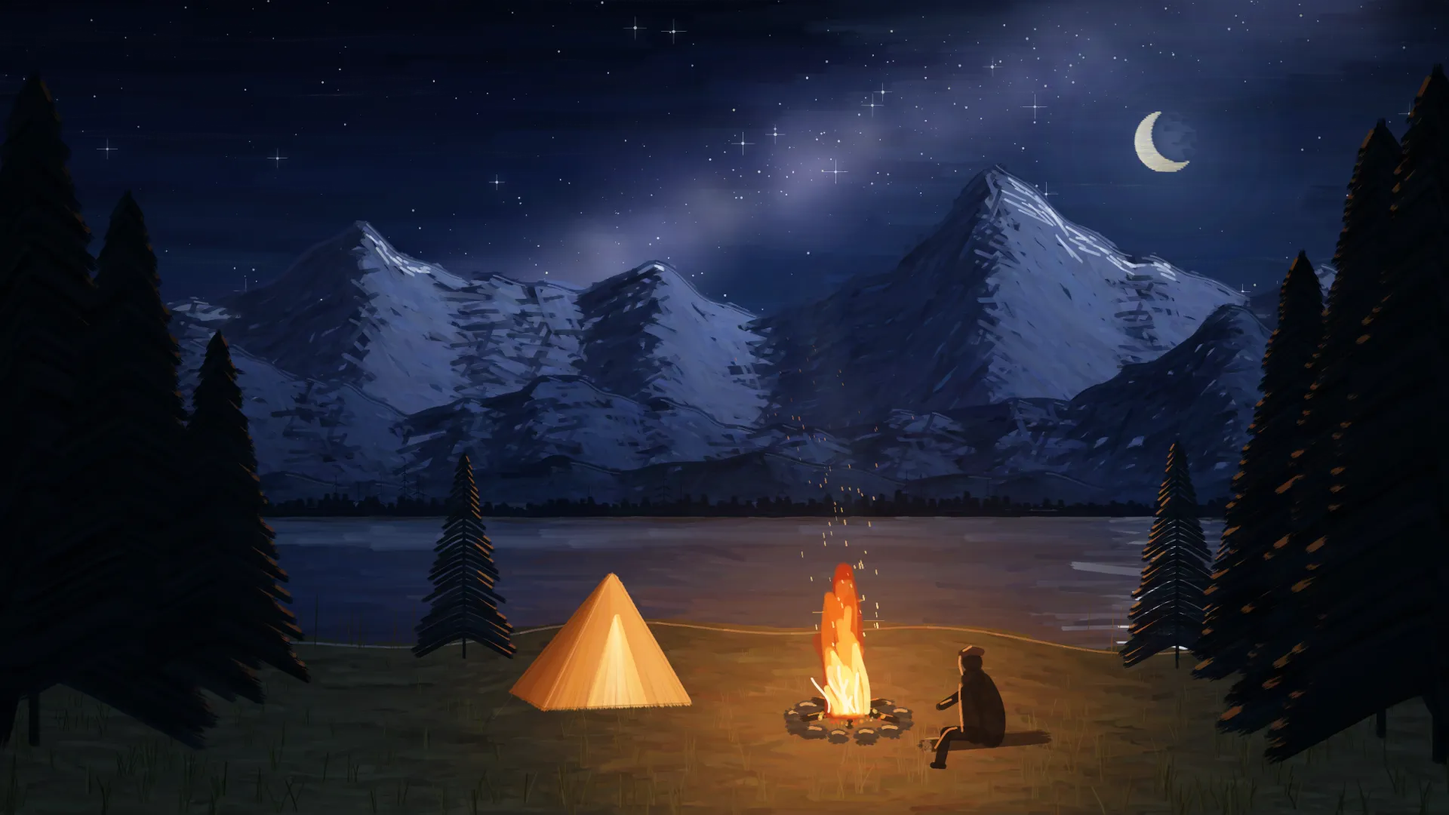
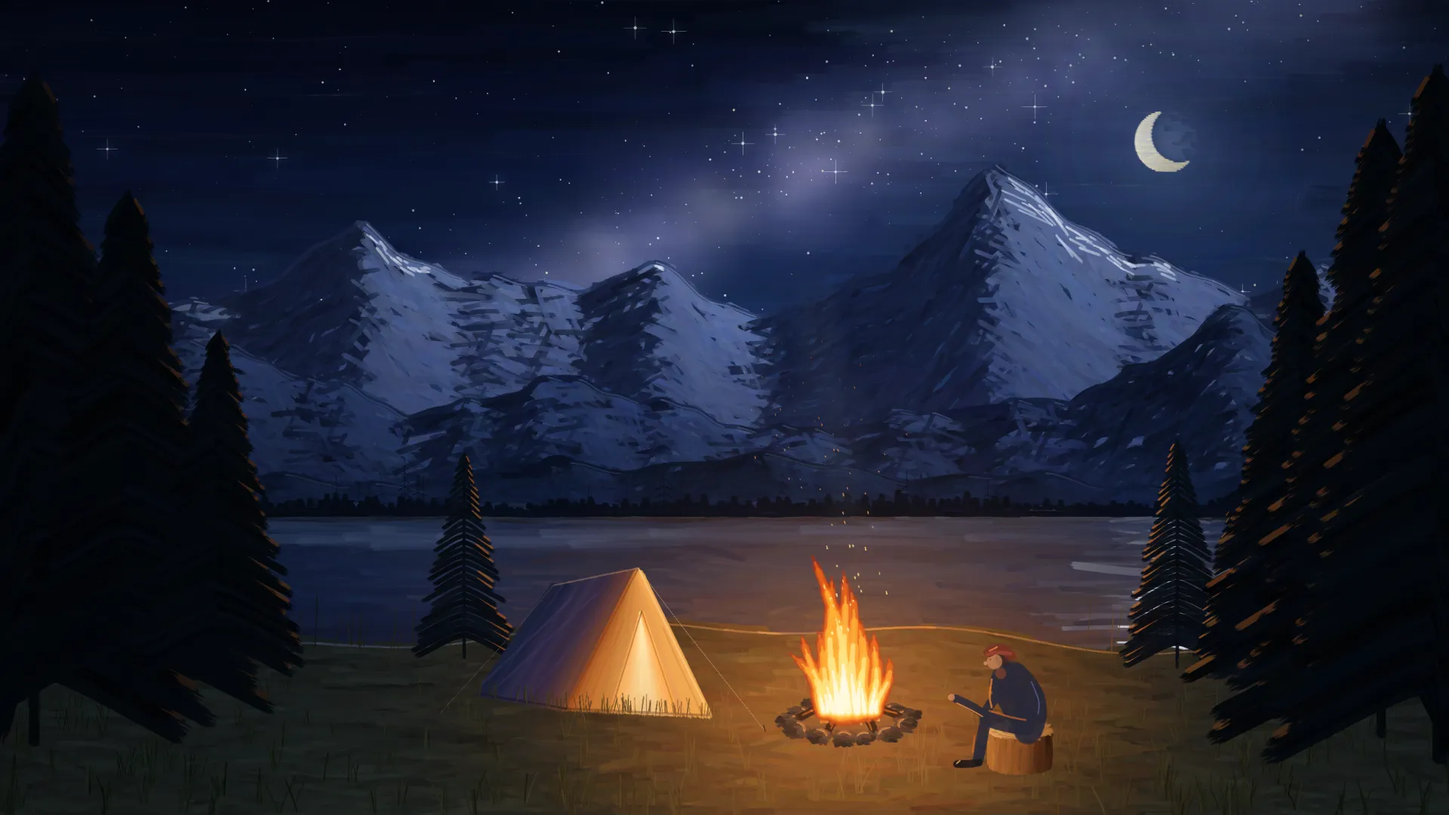
v1.3.1: sunflowers inside the jug, a better campfire camp
- Sunflowers: the stems now go down into the jug's dark mouth with the front
  lip over their ends (the bouquet is painted after the mouth), the two low
  flower heads sit clear of the rim, and the drooping flowers hang from arched
  necks instead of horizontal rods.
- Campfire by the Lake: an A-frame tent (lit gable, shadowed slope, glowing
  door, guy ropes), a fire built from tapering flame tongues, individually
  shaded stones and burning logs, and the person now sits on a tree stump.
  The stray dashes the lake phase left above the flames are painted over.
- paint-artwork.mjs: --open <file.qdraw> --drop "Layer,..." redoes only the
  last phases of a saved painting (minutes instead of half an hour).

diff --git a/frontend/scripts/artwork/campfire-by-the-lake.js b/frontend/scripts/artwork/campfire-by-the-lake.js
@@ -1,6 +1,6 @@
 // "Campfire by the Lake" — a night landscape in oil, painted inside Quarc Draw (on top of kit.js).
 // Stars and the Milky Way over moonlit mountains, a still lake, and on the near shore a campfire, a glowing tent and someone keeping
-// warm on a log. Two lights: the cold crescent moon up right, the warm fire below. Every mark is a pen stroke through the app's
+// warm on a tree stump. Two lights: the cold crescent moon up right, the warm fire below. Every mark is a pen stroke through the app's
 // own brushes, on the app's layers. Seeded: the same script paints the same picture.
 
 (() => {
@@ -255,70 +255,154 @@
     }
   };
 
-  // ------------------------------------------------------------------ 8. the camp: tent, log seat, a figure, stones and logs
+  // ------------------------------------------------------------------ 8. the camp: a tent, stones and burning logs, someone sitting on a stump
+  const lerp2 = (p, q, t) => [p[0] + (q[0] - p[0]) * t, p[1] + (q[1] - p[1]) * t];
+  const arcPts = (cx, cy, rx, ry, a0, a1, n = 14) => Array.from({ length: n + 1 }, (_, i) => { const a = a0 + ((a1 - a0) * i) / n; return [cx + rx * Math.cos(a), cy + ry * Math.sin(a)]; });
   api.camp = async () => {
+    newLayer('Water patch');                                  // the lake phase's "fire on the water" dashes float above the flames: paint that stretch of water again, calmer
+    const waterPoly = [...Array.from({ length: 14 }, (_, k) => [1360 + k * 20, 1036]), ...Array.from({ length: 14 }, (_, k) => [1620 - k * 20, shoreY(1620 - k * 20) - 6])];
+    await flowFill(waterPoly, { dir: () => 0, wobble: 0.04, colorAt: lakeAt, spacing: 11, len: [110, 260], size: [11, 18], opacity: 0.97, wet: 0.4, dh: 3, ds: 0.04, dl: 0.03 });
+    for (let i = 0; i < 9; i++) { const y = rnd(1070, 1108), x = FIRE.x + gauss() * 40; await stroke([[x - 50, y], [x + 50, y + gauss()]], { color: jit('#b8602a', 4, 0.05, 0.03), size: rnd(5, 8), opacity: 0.2, wet: 0.3 }); }   // a faint warm shimmer instead
+    const edge = []; for (let x = 1340; x <= 1660; x += 12) edge.push([x, shoreY(x)]);          // the patch hid a bit of the water's edge: draw it again
+    await contour(edge, { colorAt: ([x, y]) => mix('#3a5482', '#e08b45', clamp(fireLight(x, y, 750) * 1.6, 0, 1)), size: 5, chunk: 120, opacity: 0.7, wet: 0.2 });
     newLayer('Camp');
-    // the tent, glowing from the lantern inside: the canvas painted in strokes running from the peak down to the ground
-    const A = [1082, 1012], BL = [905, 1222], FL = [962, 1252], FR = [1218, 1242], D = [1090, 1084], DL = [1040, 1248], DR = [1142, 1246];
-    const fan = async (apex, b0, b1, n, colorAt, size) => {
-      for (let pass = 0; pass < 2; pass++) for (let k = 0; k <= n; k++) {
-        const u = clamp((k + (pass ? 0.5 : 0) + gauss() * 0.2) / n, 0, 1), b = [b0[0] + (b1[0] - b0[0]) * u, b0[1] + (b1[1] - b0[1]) * u];
-        const s0 = rnd(0.02, 0.1), pts = Array.from({ length: 6 }, (_, m) => { const t = s0 + (1 - s0) * (m / 5); return [apex[0] + (b[0] - apex[0]) * t + Math.sin(Math.PI * t) * gauss() * 1.5, apex[1] + (b[1] - apex[1]) * t]; });
-        await stroke(pts, { color: jit(colorAt(u), 3, 0.04, 0.025), size: size * rnd(0.85, 1.15), opacity: 0.95, wet: 0.35 });
-      }
+    // ---- the tent: an A-frame seen from the front-right. Its gable faces the fire (warm, lit by the flames and by a lantern inside);
+    // the long slope on the left turns away from the fire into cold shadow. Strokes run along the fall of the canvas, ridge to ground.
+    const Af = [1128, 1004], Ab = [978, 1034], Bl = [1000, 1252], Br = [1254, 1264], Cl = [846, 1226];   // ridge ends, gable corners, back corner
+    const Da = [1134, 1080], Dl = [1080, 1256], Dr = [1196, 1263];                                        // the door
+    await dab(900, 1246, { preset: 'paint-airbrush', size: 260, color: '#04060b', opacity: 0.5 });       // its shadow on the ground, away from the fire
+    await dab(1130, 1268, { preset: 'paint-airbrush', size: 200, color: '#1a0d06', opacity: 0.35 });
+    for (let pass = 0; pass < 2; pass++) for (let k = 0; k <= 28; k++) {                                   // the shadowed slope
+      const u = clamp((k + (pass ? 0.5 : 0) + gauss() * 0.15) / 28, 0, 1), top = lerp2(Af, Ab, u), bot = lerp2(Bl, Cl, u), s0 = rnd(0, 0.05);
+      const pts = Array.from({ length: 7 }, (_, m) => { const t = s0 + (1 - s0) * (m / 6), p = lerp2(top, bot, t); return [p[0] + Math.sin(Math.PI * t) * gauss() * 1.2, p[1]]; });
+      const warm = clamp((0.35 - u) / 0.35, 0, 1) * 0.55;                                                  // its front edge still catches the lantern and the fire
+      await stroke(pts, { color: jit(mix(mix(mix('#40283a', '#222a4a', u), '#9a5428', warm), '#0d1020', clamp(u - 0.6, 0, 0.4)), 3, 0.05, 0.035), size: 17 * rnd(0.85, 1.15), opacity: 0.96, wet: 0.35 });
+    }
+    for (let pass = 0; pass < 2; pass++) for (let k = 0; k <= 24; k++) {                                   // the gable: fan from the apex, brighter towards the fire
+      const u = clamp((k + (pass ? 0.5 : 0) + gauss() * 0.15) / 24, 0, 1), b = lerp2(Bl, Br, u), s0 = rnd(0.02, 0.1);
+      const pts = Array.from({ length: 7 }, (_, m) => lerp2(Af, b, s0 + (1 - s0) * (m / 6)));
+      await stroke(pts, { color: jit(mix(mix('#a8521f', '#f3a44c', Math.pow(u, 0.85)), '#ffc878', 0.2 * Math.sin(Math.PI * u)), 3, 0.04, 0.03), size: 16 * rnd(0.85, 1.15), opacity: 0.96, wet: 0.35 });
+    }
+    for (let pass = 0; pass < 2; pass++) for (let k = 0; k <= 12; k++) {                                   // the open door, glowing from the lantern
+      const u = clamp((k + (pass ? 0.5 : 0)) / 12, 0, 1), b = lerp2(Dl, Dr, u);
+      const pts = Array.from({ length: 6 }, (_, m) => lerp2(Da, b, 0.02 + 0.98 * (m / 5)));
+      await stroke(pts, { color: jit(mix('#ffeeb8', '#ff9a3a', Math.abs(u - 0.5) * 1.7), 3, 0.04, 0.03), size: 11 * rnd(0.9, 1.1), opacity: 0.97, wet: 0.3 });
+    }
+    await dab(1137, 1190, { preset: 'paint-airbrush', size: 190, color: '#ffd27a', opacity: 0.4 });          // the lantern's light spilling over the door
+    const seam = (p, q, c, size, op) => stroke(line(...p, ...q, { step: 12, jitter: 0.4 }), { color: c, size, opacity: op, wet: 0.2, pressure: 0.8 });
+    await seam(Af, Br, '#ffdca4', 4.5, 0.8);                                                               // the gable's right edge, lit by the fire
+    await seam(Af, Bl, '#6e3312', 4, 0.7); await seam(Af, Ab, '#caa070', 4, 0.6);                          // its left edge, and the ridge
+    await seam(Bl, Br, '#3c1c0c', 6, 0.55); await seam(Bl, Cl, '#0b0e19', 6, 0.7);                         // where the canvas meets the ground
+    await seam(Da, Dl, '#7a3a14', 4, 0.75); await seam(Da, Dr, '#a8561e', 4, 0.75);                        // the door's edges
+    for (const [u, v] of [[0.22, 0.18], [0.5, 0.3], [0.78, 0.2]]) {                                        // creases in the slope
+      const a = lerp2(Af, Ab, u), b = lerp2(Bl, Cl, clamp(u + v, 0, 1));
+      await stroke(line(a[0], a[1] + 30, b[0], b[1] - 16, { step: 18, jitter: 1.2 }), { color: jit('#4b3a66', 3, 0.05, 0.03), size: 6, opacity: 0.45, wet: 0.2, pressure: 0.7 });
+    }
+    for (const [p, q] of [[[1036, 1250], [1104, 1094]], [[1240, 1262], [1170, 1108]]]) await stroke(line(...p, ...q, { step: 20, jitter: 1 }), { color: '#a24f1b', size: 5, opacity: 0.35, wet: 0.2, pressure: 0.7 });
+    for (const [p, q, c] of [[Af, [1352, 1292], '#d9b890'], [Ab, [776, 1262], '#6e5a52']]) {                 // guy ropes, with a stake at each end
+      const m = lerp2(p, q, 0.5);
+      await stroke([p, [m[0], m[1] + 7], q], { color: c, size: 1.9, opacity: 0.7, wet: 0, pressure: 0.7 });
+      await stroke([[q[0] - 3, q[1] - 10], q], { color: '#2a1a10', size: 3.2, opacity: 0.95, wet: 0, pressure: 0.8 });
+    }
+    const baseY = (x) => (x < 1000 ? 1226 + ((x - 846) / 154) * 26 : 1252 + ((x - 1000) / 254) * 12);
+    for (let i = 0; i < 90; i++) {                                                                          // grass in front of the tent's foot
+      const x = rnd(840, 1262), y = baseY(x) + rnd(-2, 8), h = rnd(14, 34), f = fireLight(x, y), lean = gauss() * 0.3;
+      await stroke([[x, y], [x + lean * h * 0.4, y - h * 0.55], [x + lean * h, y - h]], { color: jit(mix(mix('#0b110b', '#1d2a1c', rnd(0, 1)), '#b06a2e', f * 0.9), 4, 0.05, 0.03), size: rnd(2, 3.6), opacity: 0.95, wet: 0, pressure: 0.8 });
+    }
+
+    // ---- a ring of stones round the fire. Each is shaded on its own: warm on the side that faces the flames, dark on the other, a shadow behind it.
+    const stones = Array.from({ length: 13 }, (_, k) => {
+      const a = (k / 13) * Math.PI * 2 + 0.25 + gauss() * 0.08;
+      return { sx: FIRE.x + Math.cos(a) * 100 * rnd(0.94, 1.06), sy: FIRE.y + 12 + Math.sin(a) * 31 * rnd(0.94, 1.06), rx: rnd(15, 25), ry: rnd(11, 16), rot: rnd(-0.2, 0.2) };
+    }).sort((p, q) => p.sy - q.sy);
+    const stone = async ({ sx, sy, rx, ry, rot }) => {
+      let ux = FIRE.x - sx, uy = FIRE.y - 14 - sy; const ul = Math.hypot(ux, uy) || 1; ux /= ul; uy /= ul;      // the way to the flames
+      await dab(sx - ux * rx * 0.55, sy + ry * 0.55 - uy * ry * 0.3, { preset: 'paint-airbrush', size: rx * 2.4, color: '#06080c', opacity: 0.55 });
+      await hatch(ellipsePts(sx, sy, rx, ry, rot), {
+        step: 4, size: 9, minLen: 6, maxLen: 36, dl: 0.03, opacity: 1, wet: 0.2,
+        colorAt: (x, y) => { const d = clamp(0.5 + 0.5 * (((x - sx) * ux) / rx + ((y - sy) * uy) / ry), 0, 1); return mix(mix('#1b1718', '#5a4034', d), '#c4632a', d * d * 0.5); },
+      });
+      const f0 = Math.atan2(uy / ry, ux / rx), rim = (r, n = 9) => Array.from({ length: n }, (_, i) => { const a = f0 + (i / (n - 1) - 0.5) * 1.8; return [sx + Math.cos(a) * rx * r, sy + Math.sin(a) * ry * r]; });
+      await stroke(rim(0.8), { preset: 'paint-gouache', color: jit('#e6803a', 4, 0.05, 0.03), size: 4, opacity: 0.6, pressure: 0.8 });
+      await stroke(rim(0.74, 4), { preset: 'paint-gouache', color: '#ffbf72', size: 2, opacity: 0.55, pressure: 0.8 });
     };
-    await fan(A, BL, FL, 9, (u) => mix('#7a3a16', '#a5521f', u), 15);                                                  // the side away from the fire, in shadow
-    await fan(A, FL, FR, 20, (u) => mix(mix('#d27428', '#f0a44c', clamp(u * 1.2, 0, 1)), '#ffbf6a', 0.25 * Math.sin(Math.PI * u)), 15);   // the front, lit from inside and by the fire
-    await fan(D, DL, DR, 10, (u) => mix('#fff0b4', '#ffbe55', Math.abs(u - 0.5) * 1.6), 10);                         // the open door, glowing
-    for (const [p, q, c] of [[A, FL, '#ffd38a'], [A, FR, '#c4661f'], [A, BL, '#5e2a10'], [BL, FL, '#5e2a10'], [FL, FR, '#8a4518']])
-      await stroke(line(...p, ...q, { step: 10, jitter: 0.5 }), { color: c, size: 3.5, opacity: 0.55, wet: 0.2, pressure: 0.8 });   // seams: soft, in the canvas' own colours
-    for (const [p, q] of [[A, [870, 1272]], [A, [1270, 1266]]]) await stroke(line(...p, ...q, { step: 16, jitter: 0.2 }), { color: '#8a6a52', size: 1.6, opacity: 0.45, wet: 0, pressure: 0.7 });   // guy lines
-    // the log seat
-    const L0 = [1636, 1318], L1 = [1846, 1302];
-    await stroke(line(...L0, ...L1, { step: 12, jitter: 0.4 }), { color: '#2e1c11', size: 36, opacity: 1, wet: 0.2, pressure: 0.95 });
-    for (let k = 0; k < 6; k++) { const t = k / 6; await stroke(line(L0[0] + (L1[0] - L0[0]) * t, L0[1] + (L1[1] - L0[1]) * t - 12 + gauss() * 3, L0[0] + (L1[0] - L0[0]) * (t + 0.14), L0[1] + (L1[1] - L0[1]) * (t + 0.14) - 12, { step: 8 }), { color: jit(mix('#4a2c18', '#c27a3c', clamp(1 - t * 1.6, 0, 1)), 4, 0.05, 0.03), size: 5, opacity: 0.85, wet: 0.1 }); }
-    await hatch(ellipsePts(L0[0] + 2, L0[1], 7, 14), { step: 4, size: 5, minLen: 5, maxLen: 14, colorAt: () => '#9a5f33', opacity: 0.9, wet: 0.2 });   // the cut end, warm in the firelight
-    // someone keeping warm, hunched forward, hands held out to the fire (soft round strokes: a silhouette, rim-lit by the flames)
-    const body = '#0d0a0b', G = { preset: 'paint-gouache', color: body, opacity: 1, pressure: 0.92 };
-    await stroke([[1752, 1300], [1756, 1266], [1748, 1232], [1732, 1208]], { ...G, size: 50 });                 // back, curved
-    await stroke([[1724, 1298], [1718, 1262], [1716, 1226]], { ...G, size: 40 });                               // chest and lap
-    await stroke([[1718, 1200], [1722, 1196]], { ...G, size: 46 });                                             // shoulders
-    await stroke([[1716, 1168], [1720, 1172]], { ...G, size: 40 });                                             // head
-    await stroke([[1700, 1156], [1716, 1146], [1734, 1152]], { ...G, color: '#3a1c14', size: 16 });              // a knitted hat
-    await stroke([[1712, 1212], [1690, 1236], [1664, 1248]], { ...G, size: 17 });                               // arm, hands held to the fire
-    await dab(1660, 1249, { ...G, size: 15 });
-    await stroke([[1738, 1300], [1704, 1294], [1672, 1296]], { ...G, size: 28 });                               // thigh
-    await stroke([[1672, 1296], [1666, 1324], [1660, 1350]], { ...G, size: 21 });                               // shin
-    await stroke([[1648, 1352], [1668, 1354]], { ...G, size: 12 });                                             // boot
-    for (const pts of [[[1696, 1160], [1694, 1178], [1700, 1192]], [[1696, 1210], [1694, 1240], [1700, 1292]], [[1680, 1236], [1662, 1244]], [[1690, 1286], [1666, 1290], [1652, 1322]], [[1702, 1150], [1716, 1142]]])
-      await stroke(pts, { preset: 'paint-gouache', color: jit('#ee8a3e', 4, 0.05, 0.03), size: 4.5, opacity: 0.9, pressure: 0.75 });  // firelight on the side facing it
-    // a ring of stones, warm where they face the flames
-    for (let k = 0; k < 12; k++) {
-      const a = (k / 12) * Math.PI * 2 + 0.2, sx = FIRE.x + Math.cos(a) * 96, sy = FIRE.y + 10 + Math.sin(a) * 30, rx = rnd(15, 24), ry = rnd(10, 14);
-      await hatch(ellipsePts(sx, sy, rx, ry), { step: 4, size: 9, minLen: 6, maxLen: 40, colorAt: (x, y) => mix(mix('#2a2526', '#4a3d36', clamp((sy - y) / ry, 0, 1)), '#6a3c1e', 0.35), dl: 0.03, opacity: 1, wet: 0.2 });
-      await stroke([[sx - rx * 0.6, sy - ry * 0.5], [sx, sy - ry * 0.85], [sx + rx * 0.6, sy - ry * 0.5]], { preset: 'paint-gouache', color: jit('#f0974c', 4, 0.05, 0.03), size: 6, opacity: 0.9, pressure: 0.8 });
+    for (const s of stones.filter((q) => q.sy < FIRE.y + 14)) await stone(s);                                // the far ones first
+    // the burning logs, leaning together over the embers
+    const crown = [FIRE.x + 4, FIRE.y - 36];
+    for (const [bx, by, th] of [[1412, 1268, 21], [1590, 1266, 21], [1462, 1292, 23], [1546, 1294, 23]]) {
+      const tip = [crown[0] + gauss() * 6 + (bx < FIRE.x ? -8 : 8), crown[1] + gauss() * 6], side = bx < FIRE.x ? 1 : -1;
+      await stroke(line(bx, by, tip[0], tip[1], { step: 10, jitter: 0.35 }), { color: '#25160d', size: th, opacity: 1, wet: 0.1, pressure: 0.95 });
+      await stroke(line(bx + side * 6, by - 5, tip[0] - side * 2, tip[1] + 5, { step: 9, jitter: 0.8 }), { color: jit('#c24f16', 4, 0.05, 0.04), size: 5, opacity: 0.85, wet: 0, pressure: 0.8 });   // the side that faces the fire glows
+      for (let k = 0; k < 4; k++) { const t = rnd(0.15, 0.85); await dab(bx + (tip[0] - bx) * t + side * 4, by + (tip[1] - by) * t - 3, { preset: 'paint-gouache', size: rnd(3, 6), color: '#ff7a24', opacity: 0.85 }); }   // glowing cracks
+      await dab(bx + (tip[0] - bx) * 0.5, by + (tip[1] - by) * 0.5, { preset: 'paint-airbrush', size: 46, color: '#ff4a10', opacity: 0.3 });
     }
-    // logs, burning
-    for (const [x0, y0, x1, y1] of [[1420, 1270, 1560, 1240], [1440, 1238, 1585, 1272], [1500, 1282, 1520, 1226], [1455, 1258, 1548, 1258]]) {
-      await stroke(line(x0, y0, x1, y1, { step: 10, jitter: 0.3 }), { color: '#22150d', size: 20, opacity: 1, wet: 0.1, pressure: 0.95 });
-      await stroke(line(x0 + 8, y0 - 6, x1 - 8, y1 - 6, { step: 8, jitter: 0.6 }), { color: jit('#ff6a1f', 4, 0.05, 0.03), size: 4, opacity: 0.9, wet: 0, pressure: 0.8 });
-    }
+    for (const s of stones.filter((q) => q.sy >= FIRE.y + 14)) await stone(s);                               // the near ones in front of the logs
+
+    // ---- a tree stump to sit on, lit on the side that faces the fire
+    const T = [1802, 1290], SR = 56, SRY = 16, SH = 62;
+    await dab(T[0] + 66, T[1] + SH + 8, { preset: 'paint-airbrush', size: 230, color: '#04060a', opacity: 0.55 });   // its shadow, away from the fire
+    const sidePoly = [[T[0] - SR, T[1]], ...arcPts(T[0], T[1] + SH, SR, SRY, Math.PI, 0), ...arcPts(T[0], T[1], SR, SRY, 0, Math.PI)];
+    const barkAt = (x) => { const u = clamp((x - (T[0] - SR)) / (2 * SR), 0, 1); return mix(mix('#b3692f', '#6e3b1b', Math.pow(u, 0.7) * 1.2), '#1d0f08', clamp((u - 0.55) / 0.45, 0, 1) * 0.8); };
+    await flowFill(sidePoly, { dir: () => Math.PI / 2, wobble: 0.07, colorAt: barkAt, spacing: 6, len: [26, 60], size: [6, 10], opacity: 1, wet: 0.2, dh: 4, ds: 0.05, dl: 0.04 });
+    await hatch(ellipsePts(T[0], T[1], SR, SRY), { step: 4, size: 8, minLen: 8, maxLen: 40, colorAt: (x) => mix('#e0a15e', '#8e5628', clamp(((x - T[0]) / SR) * 0.5 + 0.5, 0, 1) * 0.8), dl: 0.025, opacity: 1, wet: 0.2 });
+    for (const k of [0.8, 0.58, 0.36]) await contour(ellipsePts(T[0], T[1], SR * k, SRY * k, 0, 28).concat([[T[0] + SR * k, T[1]]]), { colorAt: () => '#7c4620', size: 2.2, chunk: 90, opacity: 0.55, wet: 0.1 });   // the rings of the wood
+    await contour(arcPts(T[0], T[1], SR, SRY, 0, Math.PI, 20), { colorAt: ([x]) => (x < T[0] ? '#f0a55a' : '#a8642e'), size: 3.5, chunk: 90, opacity: 0.9, wet: 0.1 });
+
+    // ---- someone keeping warm on the stump: side view, hunched forward, elbow on the knee, hand held out to the fire, boots on the ground.
+    // Dark blue jacket, a knitted hat, the face lit by the flames; warm rim light on the side facing the fire, a cool one from the moon on the back.
+    const G = { preset: 'paint-gouache', color: '#1b2134', opacity: 1, pressure: 0.92 };
+    await stroke([[1814, 1286], [1776, 1280], [1742, 1270]], { ...G, size: 31 });                           // thigh along the stump
+    await stroke([[1742, 1270], [1734, 1308], [1728, 1344]], { ...G, size: 22 });                           // shin
+    await stroke([[1730, 1347], [1708, 1351], [1690, 1350]], { ...G, color: '#0d0f16', size: 15 });         // boot
+    await stroke([[1816, 1290], [1828, 1252], [1818, 1216], [1790, 1192]], { ...G, size: 58 });             // back and hips
+    await stroke([[1800, 1262], [1782, 1232], [1768, 1204]], { ...G, size: 50 });                           // chest
+    await dab(1776, 1196, { ...G, size: 54 });                                                              // shoulders
+    await stroke([[1774, 1212], [1752, 1240], [1738, 1262]], { ...G, size: 19 });                           // upper arm, to the elbow on the knee
+    await stroke([[1738, 1262], [1712, 1244], [1688, 1234]], { ...G, size: 17 });                           // forearm
+    await dab(1681, 1232, { preset: 'paint-gouache', color: '#d98a58', size: 14, opacity: 1 });            // the hand, warm
+    await dab(1768, 1190, { ...G, color: '#7a3a2a', size: 22 });                                            // a scarf
+    await dab(1772, 1163, { ...G, color: '#1a1520', size: 31 });                                            // hair at the back of the head
+    await dab(1757, 1169, { ...G, color: '#c9835a', size: 31 });                                            // the face, lit by the fire
+    await dab(1741, 1172, { ...G, color: '#d9966a', size: 8 });                                             // nose
+    await dab(1750, 1165, { ...G, color: '#2a1a14', size: 3 });                                           // eye
+    await stroke([[1746, 1153], [1762, 1143], [1782, 1147], [1787, 1160]], { ...G, color: '#6a2a22', size: 20 });   // a knitted hat
+    await stroke([[1743, 1157], [1762, 1150], [1786, 1155]], { ...G, color: '#8c3a2c', size: 7 });          // its folded brim
+    for (const [pts, c, size, op] of [
+      [[[1752, 1250], [1746, 1224], [1752, 1200]], '#e0782f', 4, 0.85],                                      // chest
+      [[[1812, 1272], [1776, 1266], [1748, 1256]], '#c85f26', 4, 0.7],                                       // top of the thigh
+      [[[1722, 1300], [1718, 1330]], '#c85f26', 3.5, 0.8],                                                   // shin
+      [[[1736, 1266], [1712, 1252], [1690, 1242]], '#f08a3c', 3, 0.85],                                      // forearm
+      [[[1696, 1344], [1690, 1349]], '#f0a05a', 3, 0.9],                                                     // boot toe
+      [[[1748, 1150], [1762, 1143]], '#f08040', 3, 0.85],                                                    // hat
+      [[[1834, 1262], [1838, 1230], [1822, 1204]], '#4d5f95', 3, 0.7],                                       // moonlight on the back
+    ]) await stroke(pts, { preset: 'paint-gouache', color: c, size, opacity: op, pressure: 0.75 });
   };
 
   // ------------------------------------------------------------------ 9. the fire, sparks and smoke
   api.fire = async () => {
     newLayer('Fire');
-    for (let i = 0; i < 50; i++) { const a = rnd(0, Math.PI * 2), r = Math.sqrt(rnd(0, 1)); await dab(FIRE.x + Math.cos(a) * 62 * r, FIRE.y + 4 + Math.sin(a) * 15 * r, { preset: 'paint-gouache', size: rnd(4, 9), color: ['#ff4d12', '#ff8a1f', '#ffd25a'][i % 3], opacity: 0.95 }); }
-    for (const [size, col, n] of [[260, '#a82a0c', 4], [170, '#f06a16', 4], [100, '#ffb33a', 3]]) for (let i = 0; i < n; i++) await dab(FIRE.x + gauss() * 6, FIRE.y - 70 + gauss() * 8, { preset: 'paint-airbrush', size, color: col, opacity: 0.55 });   // the fire's glowing body
-    // tongues of flame, layer by layer: deep red outside, white-yellow at the heart (a soft round brush: fire has no bristle marks)
-    for (const [n, hk, size, col, op] of [[16, 1, 34, '#b8290f', 0.8], [16, 0.88, 26, '#ee6316', 0.88], [14, 0.72, 18, '#ffab32', 0.95], [10, 0.52, 12, '#ffe17e', 1], [6, 0.32, 7, '#fff6d4', 1]]) {
-      for (let i = 0; i < n; i++) {
-        const x0 = FIRE.x + gauss() * 26, centre = Math.exp(-(((x0 - FIRE.x) / 55) ** 2)), h = (70 + Math.pow(rnd(0, 1), 0.7) * 190) * (0.45 + 0.55 * centre) * hk;
-        const ph = rnd(0, 6.28), amp = rnd(8, 20), pts = [];
-        for (let k = 0; k <= 11; k++) { const t = k / 11; pts.push([x0 + Math.sin(t * 3.2 + ph) * amp * t - 12 * t * t, FIRE.y - 4 - h * t]); }
-        await stroke(pts, { preset: 'paint-gouache', hardness: 0.55, color: jit(col, 4, 0.05, 0.03), size: size * rnd(0.8, 1.2), opacity: op });
+    for (let i = 0; i < 45; i++) { const a = rnd(0, Math.PI * 2), r = Math.sqrt(rnd(0, 1)); await dab(FIRE.x + Math.cos(a) * 58 * r, FIRE.y + 6 + Math.sin(a) * 13 * r, { preset: 'paint-gouache', size: rnd(4, 9), color: ['#ff4d12', '#ff8a1f', '#ffd25a'][i % 3], opacity: 0.95 }); }   // a bed of embers
+    for (const [size, col, n] of [[300, '#8e200a', 3], [190, '#e2561a', 3], [110, '#ffa42e', 3]]) for (let i = 0; i < n; i++) await dab(FIRE.x + gauss() * 6, FIRE.y - 55 + gauss() * 6, { preset: 'paint-airbrush', size, color: col, opacity: 0.5 });   // the glowing body of the fire
+    // tongues of flame: each a tapering ribbon of round touches along a swaying path — broad at the foot, a point at the tip. Tall in the middle, short at the sides,
+    // leaning a little to the left (a breath of wind). Deep red outside, then orange, yellow and a white-hot core low down.
+    const licks = Array.from({ length: 11 }, (_, i) => {
+      const f = ((i + 0.5) / 11) * 2 - 1, centre = Math.exp(-((f / 0.62) ** 2));
+      return { x0: FIRE.x + f * 50 + gauss() * 4, h: (80 + centre * 190) * rnd(0.78, 1.12), lean: -rnd(0, 42) + f * 26, w: 30 * (0.6 + 0.55 * centre) * rnd(0.88, 1.1), ph: rnd(0, 6.28), amp: rnd(7, 17) };
+    }).sort((a, b) => b.h - a.h);
+    const path = (L, t) => [L.x0 + L.lean * Math.pow(t, 1.7) + Math.sin(t * 3.6 + L.ph) * L.amp * Math.min(1, t * 2.2), FIRE.y - 4 - L.h * t];
+    for (const [scale, col, op, reach, hard] of [[1, '#b5260d', 0.9, 1, 0.3], [0.8, '#ee6015', 0.95, 0.96, 0.45], [0.58, '#ffa92c', 0.97, 0.82, 0.55], [0.36, '#ffe27c', 1, 0.6, 0.6], [0.2, '#fff8dc', 1, 0.34, 0.6]]) {
+      for (const L of licks) {
+        // the ribbon is laid in overlapping strokes, each a little narrower than the one below it, so it tapers to a point without any beads
+        const M = Math.max(4, Math.round((L.h * reach) / 40));
+        for (let m = 0; m < M; m++) {
+          const u0 = m / M, u1 = (m + 1) / M, um = (u0 + u1) / 2, r = L.w * scale * Math.pow(1 - um, 0.9);
+          if (r < 1.8) continue;
+          const a = Math.max(0, u0 - 0.6 / M), b = Math.min(1, u1 + 0.6 / M);
+          await stroke(Array.from({ length: 5 }, (_, k) => path(L, (a + (b - a) * (k / 4)) * reach)), { preset: 'paint-gouache', hardness: hard, color: jit(col, 2, 0.03, 0.02), size: r * 2.3, opacity: op * (1 - 0.3 * um), pressure: 1 });
+        }
       }
     }
+    for (let i = 0; i < 2; i++) await dab(FIRE.x, FIRE.y - 26, { preset: 'paint-airbrush', size: 110, color: '#fff0b0', opacity: 0.45 });   // white-hot at the heart
     newLayer('Sparks and smoke');
     for (let i = 0; i < 4; i++) {                                                                // smoke: soft puffs, wider and fainter as they rise and drift left
       let x = FIRE.x + gauss() * 10, y = FIRE.y - 200;
@@ -328,9 +412,9 @@
         await dab(x, y, { preset: 'paint-airbrush', size: 50 + 170 * t, color: jit(t < 0.18 ? '#6a4636' : '#525a70', 4, 0.04, 0.03), opacity: 0.32 * (1 - t * 0.7) });
       }
     }
-    for (let i = 0; i < 80; i++) {                                                               // sparks flying up
-      const t = Math.pow(rnd(0, 1), 0.8), y = FIRE.y - 110 - t * 560, x = FIRE.x + gauss() * (16 + t * 110) + Math.sin(t * 6 + i) * 30 - t * t * 90, len = rnd(4, 11) * (1 - t * 0.5);
-      await stroke([[x, y + len], [x - 1.5, y]], { preset: 'paint-gouache', color: jit(mix('#fff0a0', '#ff6a1f', t), 3, 0.05, 0.03), size: (2 + rnd(0, 3)) * (1 - t * 0.55), opacity: 1 - t * 0.55, pressure: 0.85 });
+    for (let i = 0; i < 80; i++) {                                                               // sparks flying up: tiny glowing flecks
+      const t = Math.pow(rnd(0, 1), 0.8), y = FIRE.y - 130 - t * 540, x = FIRE.x + gauss() * (16 + t * 110) + Math.sin(t * 6 + i) * 30 - t * t * 90, len = rnd(1.5, 6) * (1 - t * 0.5);
+      await stroke([[x, y + len], [x - 1, y]], { preset: 'paint-gouache', color: jit(mix('#fff0a0', '#ff6a1f', t), 3, 0.05, 0.03), size: (2 + rnd(0, 2.5)) * (1 - t * 0.55), opacity: 1 - t * 0.55, pressure: 0.85 });
     }
   };
 
@@ -346,7 +430,7 @@
     for (let i = 0; i < 5; i++) await dab(FIRE.x + gauss() * 12, FIRE.y - 70 + gauss() * 10, { preset: 'paint-airbrush', size: 1400, color: '#ff7a2c', opacity: 0.45 });
     for (let i = 0; i < 4; i++) await dab(FIRE.x, FIRE.y - 80, { preset: 'paint-airbrush', size: 700, color: '#ffa64c', opacity: 0.45 });
     for (let i = 0; i < 3; i++) await dab(FIRE.x, FIRE.y - 90, { preset: 'paint-airbrush', size: 300, color: '#ffd37a', opacity: 0.5 });
-    for (let i = 0; i < 3; i++) await dab(1092, 1196, { preset: 'paint-airbrush', size: 260, color: '#ffc061', opacity: 0.45 });
+    for (let i = 0; i < 3; i++) await dab(1137, 1196, { preset: 'paint-airbrush', size: 260, color: '#ffc061', opacity: 0.45 });
     newLayer('Moonlight', { blend: 'screen', opacity: 0.35 });
     for (let i = 0; i < 3; i++) await dab(MOON.x, MOON.y, { preset: 'paint-airbrush', size: 520, color: '#7f98cf', opacity: 0.45 });
     vignette('Vignette', { cx: 0.56, cy: 0.62, inner: 0.4, color: '3,5,12', strength: 0.95, opacity: 0.72 });
@@ -355,6 +439,6 @@
   window.Painter = {
     title: 'Campfire by the Lake', file: 'campfire-by-the-lake', width: 2560, height: 1440,
     phases: ['sky', 'milkyway', 'stars', 'moon', 'mountains', 'lake', 'forest', 'ground', 'camp', 'fire', 'pines', 'glow'], run: api,
-    crops: [['crop-camp', 900, 960, 1100, 460], ['crop-sky', 1400, 60, 1000, 560]],
+    crops: [['crop-camp', 900, 960, 1100, 460], ['crop-tent', 800, 960, 520, 360], ['crop-fire', 1340, 960, 320, 360], ['crop-person', 1640, 1110, 300, 270], ['crop-sky', 1400, 60, 1000, 560]],
   };
 })();

diff --git a/frontend/scripts/artwork/sunflowers.js b/frontend/scripts/artwork/sunflowers.js
@@ -63,12 +63,12 @@
   const HEADS = [
     { x: 1190, y: 395, r: 122, tilt: 0.75, rot: 0.25 },
     { x: 1000, y: 650, r: 232, tilt: 1.0, rot: 0.1 },
-    { x: 610, y: 905, r: 196, tilt: 0.82, rot: -0.35 },
-    { x: 1405, y: 865, r: 206, tilt: 0.8, rot: 0.4 },
-    { x: 380, y: 1320, r: 150, tilt: 0.55, rot: -0.72 },
-    { x: 1630, y: 1340, r: 142, tilt: 0.5, rot: 0.78 },
-    { x: 800, y: 1170, r: 172, tilt: 0.9, rot: -0.15 },
-    { x: 1255, y: 1215, r: 165, tilt: 0.72, rot: 0.55 },
+    { x: 590, y: 860, r: 192, tilt: 0.82, rot: -0.35 },
+    { x: 1420, y: 845, r: 204, tilt: 0.8, rot: 0.4 },
+    { x: 380, y: 1320, r: 150, tilt: 0.55, rot: -0.72, droop: true },
+    { x: 1630, y: 1340, r: 142, tilt: 0.5, rot: 0.78, droop: true },
+    { x: 765, y: 1095, r: 160, tilt: 0.9, rot: -0.15 },
+    { x: 1262, y: 1105, r: 156, tilt: 0.72, rot: 0.55 },
   ];
   /** a point in a flower head's own (round) coordinates, turned and foreshortened into the picture */
   const local = (h, u, v) => [h.x + u * Math.cos(h.rot) - v * h.tilt * Math.sin(h.rot), h.y + u * Math.sin(h.rot) + v * h.tilt * Math.cos(h.rot)];
@@ -91,23 +91,7 @@
     await stroke(Array.from({ length: 14 }, (_, i) => at(0.04 + (i / 13) * 0.93, dark * 0.98)), { color: '#26391a', size: Math.max(4, wid * 0.08), opacity: 0.7, wet: 0.1, pressure: 0.75 });
   }
 
-  // ------------------------------------------------------------------ 3. stems and the leaves behind the jug
-  api.stems = async () => {
-    newLayer('Stems');
-    for (const h of HEADS) {
-      const mx = VASE_X + clamp((h.x - VASE_X) * 0.12, -80, 80) + gauss() * 12, my = MOUTH_Y + 30;
-      const low = h.y > MOUTH_Y - 260, cx = (h.x + mx) / 2 + (h.x - VASE_X) * (low ? 0.05 : 0.22), cy = low ? Math.min(h.y, my) - 0.38 * Math.abs(h.x - mx) : (h.y + my) / 2 + 40;
-      const pts = Array.from({ length: 24 }, (_, i) => { const t = i / 23, u = 1 - t; return [u * u * h.x + 2 * u * t * cx + t * t * mx, u * u * h.y + 2 * u * t * cy + t * t * my]; });
-      const thick = 16 + h.r * 0.07;
-      await stroke(pts, { color: jit('#4b6a28', 4, 0.05, 0.04), size: thick, opacity: 0.97, wet: 0.3, pressure: 0.85 });
-      await stroke(pts.map(([x, y]) => [x - thick * 0.25, y - 2]), { color: jit('#87a845', 4, 0.05, 0.04), size: thick * 0.35, opacity: 0.85, wet: 0.2, pressure: 0.8 });
-    }
-    await leaf(880, 1250, Math.PI * 1.08, 300, 66, -0.18, 0.7);
-    await leaf(1150, 1235, -0.2, 320, 70, 0.2, 0.35);
-    await leaf(1010, 1150, -1.35, 220, 52, -0.15, 0.6);
-  };
-
-  // ------------------------------------------------------------------ 4. the jug
+  // ------------------------------------------------------------------ 3. the jug (the stems and leaves in its mouth come after it, in 4)
   const PROFILE = [[1290, 150], [1330, 127], [1400, 120], [1480, 176], [1580, 246], [1700, 272], [1820, 252], [1920, 200], [1972, 168]];
   const vr = (y) => { for (let i = 1; i < PROFILE.length; i++) if (y <= PROFILE[i][0]) { const [y0, r0] = PROFILE[i - 1], [y1, r1] = PROFILE[i], t = (y - y0) / (y1 - y0), s = t * t * (3 - 2 * t); return r0 + (r1 - r0) * s; } return PROFILE[PROFILE.length - 1][1]; };
   const BANDS = [[1632, 1688], [1752, 1770]];
@@ -134,6 +118,32 @@
     // the mouth: dark inside, cream lip
     await hatch(ellipsePts(VASE_X, 1292, 132, 24), { step: 6, size: 12, minLen: 30, maxLen: 120, colorAt: () => '#2d2319', dl: 0.03, opacity: 1, wet: 0.2 });
     await contour(ellipsePts(VASE_X, 1292, 148, 30).concat([[VASE_X + 148, 1292]]), { colorAt: () => '#efe4c8', size: 13, chunk: 160, opacity: 0.95, wet: 0.2 });
+  };
+
+  // ------------------------------------------------------------------ 4. the bouquet in the jug (after the jug: the stems go down into its dark mouth)
+  const LIP = (x) => MOUTH_Y - 8 + 30 * Math.sqrt(Math.max(0, 1 - ((x - VASE_X) / 148) ** 2));   // the front edge of the lip at x
+  api.stems = async () => {
+    newLayer('Stems');
+    // leaves rising out of the mouth
+    await leaf(900, 1288, Math.PI * 1.08, 300, 66, -0.18, 0.7);
+    await leaf(1100, 1288, -0.2, 320, 70, 0.2, 0.35);
+    await leaf(1005, 1285, -1.45, 230, 52, -0.15, 0.6);
+    for (const h of HEADS) {
+      const thick = 16 + h.r * 0.07;
+      const mx = VASE_X + clamp((h.x - VASE_X) * 0.12, -85, 85) + gauss() * 8;
+      const my = LIP(mx) + 5 - thick * 0.5;                    // the round end of the stem lies under the cream lip, painted over it below
+      // leaning stems rise steeply out of the mouth and curve to their head; the drooping ones arch over the rim
+      const cx = h.droop ? (h.x + mx) / 2 + (h.x - VASE_X) * 0.05 : mx + (h.x - mx) * 0.3;
+      const cy = h.droop ? Math.min(h.y, my) - 0.95 * Math.abs(h.x - mx) : h.y + (my - h.y) * 0.5;   // a drooping head hangs from a neck that rises out of the jug, arches, and bends down
+      const pts = Array.from({ length: 24 }, (_, k) => { const t = k / 23, u = 1 - t; return [u * u * h.x + 2 * u * t * cx + t * t * mx, u * u * h.y + 2 * u * t * cy + t * t * my]; });
+      await stroke(pts, { color: jit('#4b6a28', 4, 0.05, 0.04), size: thick, opacity: 0.97, wet: 0.3, pressure: 0.85 });
+      await stroke(pts.map(([x, y]) => [x - thick * 0.25, y - 2]), { color: jit('#87a845', 4, 0.05, 0.04), size: thick * 0.35, opacity: 0.85, wet: 0.2, pressure: 0.8 });
+      const inside = pts.filter(([x, y]) => y > MOUTH_Y - 28 && Math.abs(x - VASE_X) < 140);   // down in the jug the stem is in shadow
+      if (inside.length > 1) await stroke(inside, { color: '#18230f', size: thick * 1.02, opacity: 0.58, wet: 0.1, pressure: 0.85 });
+    }
+    // the front lip goes back over the stems' ends, so they really are inside the jug
+    const lip = Array.from({ length: 25 }, (_, k) => { const a = (Math.PI * k) / 24; return [VASE_X + 148 * Math.cos(a), 1292 + 30 * Math.sin(a)]; });
+    await contour(lip, { colorAt: () => '#efe4c8', size: 13, chunk: 160, opacity: 0.97, wet: 0.2 });
   };
 
   // ------------------------------------------------------------------ 5. the sunflowers
@@ -179,8 +189,8 @@
   // ------------------------------------------------------------------ 6. front leaves, fallen petals, light
   api.details = async () => {
     newLayer('Front leaves');
-    await leaf(940, 1318, Math.PI * 0.72, 330, 70, 0.22, 0.75);
-    await leaf(1075, 1318, Math.PI * 0.2, 290, 62, -0.25, 0.4);
+    await leaf(940, 1306, Math.PI * 0.72, 330, 70, 0.22, 0.75);
+    await leaf(1075, 1306, Math.PI * 0.2, 290, 62, -0.25, 0.4);
     newLayer('Fallen petals');
     for (const [x, y, a, c, bend] of [[690, 2050, -0.35, '#f2b72a', 0.18], [1440, 2110, 2.75, '#f6c63d', -0.15], [1540, 2058, 0.15, '#c98a2a', 0.22]]) {
       const len = 105, pt = (t, off) => { const b = bend * Math.sin(Math.PI * t) * len; return [x + Math.cos(a) * len * t - Math.sin(a) * (b + off), y + Math.sin(a) * len * t + Math.cos(a) * (b + off)]; };
@@ -198,7 +208,7 @@
 
   window.Painter = {
     title: 'Sunflowers', file: 'sunflowers', width: 2000, height: 2500,
-    phases: ['wall', 'table', 'stems', 'vase', 'flowers', 'details', 'glaze'], run: api,
-    crops: [['crop-flower', 740, 390, 520, 520], ['crop-jug', 700, 1250, 620, 800]],
+    phases: ['wall', 'table', 'vase', 'stems', 'flowers', 'details', 'glaze'], run: api,
+    crops: [['crop-flower', 740, 390, 520, 520], ['crop-mouth', 560, 950, 900, 520], ['crop-jug', 700, 1250, 620, 800]],
   };
 })();

diff --git a/art/README.md b/art/README.md
@@ -10,13 +10,15 @@ cd frontend && npm run build
 node scripts/paint-artwork.mjs --piece harbour-at-dusk --final --web   # --web: the 1920 px copy the app shows
 node scripts/paint-artwork.mjs --piece sunflowers --final --web
 node scripts/paint-artwork.mjs --piece campfire-by-the-lake --final --web
+# the lake takes ~15 min, so to redo only the last phases of a finished picture reopen it and drop their layers:
+node scripts/paint-artwork.mjs --piece campfire-by-the-lake --open ../art/campfire-by-the-lake.qdraw --drop "Water patch,Camp,Fire,Sparks and smoke,Pines,Firelight,Moonlight,Vignette" camp,fire,pines,glow --final --web
 ```
 
 | painting | size | layers | files here (not in git — large) |
 |---|---|---|---|
 | **Harbour at Dusk** — sunset over the sea, lighthouse, sailboat, rocks | 2560 × 1440 | 9 | `harbour-at-dusk.qdraw`, `.png` |
 | **Sunflowers** — a cream jug of sunflowers on a wooden table, swirling blue wall | 2000 × 2500 | 11 | `sunflowers.qdraw`, `.png` |
-| **Campfire by the Lake** — night: Milky Way, crescent moon, moonlit mountains, a lake, a campfire, a glowing tent and someone keeping warm | 2560 × 1440 | 18 | `campfire-by-the-lake.qdraw`, `.png` |
+| **Campfire by the Lake** — night: Milky Way, crescent moon, moonlit mountains, a lake, a campfire, a glowing tent and someone keeping warm on a tree stump | 2560 × 1440 | 19 | `campfire-by-the-lake.qdraw`, `.png` |
 
 Open a `.qdraw` with *File ▸ Open* to see every layer. The 1920 px copies in `frontend/public/art/` are what the app shows: the home
 screen banner shows a different one each time the app opens (swipe it or use its dots for another; tap it to see the painting whole in

diff --git a/CLAUDE.md b/CLAUDE.md
@@ -37,7 +37,7 @@ check.sh, backup.sh, restore.sh and `.github/workflows/{tests,desktop-release}.y
   different one each launch, swipe/dots switch, tap opens `PaintingViewer` — full screen in a gilded frame; the About box shows the
   same one) were made
   in the app by `frontend/scripts/paint-artwork.mjs` + `scripts/artwork/kit.js` + one file per picture (`harbour-at-dusk.js`,
-  `sunflowers.js`, `campfire-by-the-lake.js`; `node scripts/paint-artwork.mjs --piece <name> --final --web`, seeded and reproducible; full-size `.qdraw`/`.png` are in
+  `sunflowers.js`, `campfire-by-the-lake.js`; `node scripts/paint-artwork.mjs --piece <name> --final --web`, seeded and reproducible (`--open <file.qdraw> --drop "Layer,Layer" <phases>` redoes only the last phases of a saved picture, see art/README.md); full-size `.qdraw`/`.png` are in
   `art/`, git-ignored; see art/README.md). Shown only on the home screen and in About, hidden on phones, switchable in Preferences —
   don't spread them around the app.
 - **Full-screen drawing** (`app/fullDraw.ts`, `ui/SimpleBar.tsx`, command `view.fullscreen`, key `F`): App hides every panel and
